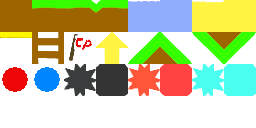
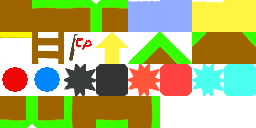
Add files via upload

Changed region(s): [[0.0, 0.75, 0.625, 1.0], [0.75, 0.25, 1.0, 0.5], [0.3438, 0.0625, 0.4062, 0.25]]

diff --git a/gameV2/js/main.js b/gameV2/js/main.js
@@ -89,14 +89,14 @@ map = [
 //   -0--1--2--3--4--5--6--7--8--9--0--1--2--3--4--5--6--7--8--9--0--1--2--3--4--5--6--7--8
 	[00,00,00,00,00,00,00,00,00,00,00,00,00,00,00,00,00,00,00,00,00,00,00,00,00,00,00,00,00,00],//00
 	[00,00,00,00,00,00,00,00,00,00,00,00,00,00,00,00,00,00,00,00,00,00,00,00,00,00,00,00,00,00],//01
-	[00,00,00,00,00,00,00,00,00,11,00,00,00,00,00,00,00,00,00,00,00,00,00,00,00,00,00,00,00,00],//02
-	[22,21,24,23,26,25,00,00,00,00,00,00,00,00,00,00,00,00,00,00,00,00,00,00,00,00,00,00,00,00],//03
-	[00,00,00,00,00,00,00,00,00,00,00,00,00,00,00,00,00,00,00,00,11,00,00,00,00,00,00,00,00,00],//04
-	[00,00,00,00,00,00,00,00,00,00,00,00,00,00,00,00,11,00,00,00,00,00,00,00,00,00,00,00,00,00],//05
-	[00,00,00,00,00,00,00,00,00,00,00,00,00,00,00,00,00,00,00,00,00,00,00,00,00,00,00,00,00,00],//06
-	[08,00,00,00,00,00,09,00,00,00,00,00,00,00,00,00,00,00,00,00,00,00,00,00,22,00,00,00,00,00],//07
-	[05,05,05,05,65,05,05,00,00,00,00,00,00,00,00,00,00,00,00,00,00,00,00,00,22,00,00,00,00,22],//08
-	[00,00,00,00,06,00,00,00,00,00,00,00,00,00,00,28,28,28,00,00,30,00,00,00,22,00,00,00,00,00],//09
+	[00,00,00,00,00,00,00,00,00,00,00,00,00,00,00,00,00,00,00,00,00,00,00,00,00,00,00,00,00,00],//02
+	[22,21,24,23,26,25,00,00,00,00,31,32,33,34,35,00,00,00,00,00,00,00,00,00,00,00,00,00,00,00],//03
+	[00,00,00,00,00,00,00,00,00,00,00,00,00,00,00,00,00,00,00,00,00,00,00,00,00,00,00,00,00,00],//04
+	[00,00,00,00,00,00,00,00,00,00,00,00,00,00,00,00,11,00,00,00,15,00,00,00,00,00,00,00,00,00],//05
+	[00,00,00,00,00,00,00,00,00,00,00,00,14,15,00,00,00,00,00,00,00,15,00,00,00,00,00,00,00,00],//06
+	[08,00,00,00,00,00,09,00,00,00,00,14,16,17,15,00,00,00,00,00,00,00,15,00,22,00,00,00,00,00],//07
+	[05,05,05,05,65,05,05,00,00,00,14,00,00,00,15,00,00,00,15,00,00,00,00,00,22,00,00,00,00,22],//08
+	[00,00,00,00,06,00,00,00,00,14,00,00,00,14,00,28,28,28,00,15,30,00,00,00,22,00,00,00,00,00],//09
 	[03,00,00,00,06,00,00,00,00,00,00,00,00,00,00,27,27,27,00,00,29,00,00,00,22,00,00,00,00,00],//10
 	[01,00,00,00,06,00,00,05,05,05,05,05,05,05,00,27,27,27,00,00,29,00,00,00,22,00,00,00,00,00],//11
 	[01,00,10,00,06,14,00,22,00,11,22,11,00,22,00,27,27,27,00,00,29,00,00,00,22,00,13,00,00,21],//12
@@ -206,8 +206,10 @@ var spikeX = new Array();//
 var spikeY = new Array();//
 var blocksX = new Array();//
 var blocksY = new Array();//
-var slopeX = new Array();//
-var slopeY = new Array();//
+var slopeRX = new Array();//
+var slopeRY = new Array();//
+var slopeLX = new Array();//
+var slopeLY = new Array();//
 var waterX = new Array();//
 var waterY = new Array();//
 var sandX = new Array();//
@@ -237,7 +239,10 @@ for (var my=0; my<map.length; my++){for (var mx=0; mx<map[my].length; mx++){
 /*player*/	if (map[my][mx] === 10&&once&&spawn) {x=32*mx, y=32*my;cx=x;cy=y}
 /*enemy*/ 	if (map[my][mx] === 11&&once&&espawn) {enemyX.push(mx*32);enemyY.push(my*32);enemyturn.push(true);enemyjump.push(true);enemyV.push(0);espeed.push(0.8);}
 /*-cp-*/	if (map[my][mx] === 13&&!cp==true) {ctx.drawImage( mapchip, 64, 32, 32, 32, 32*mx, 32*my, 32, 32 );cpX.push(mx*32);cpY.push(my*32)}
-/*slope*/ 	if (map[my][mx] === 14) {ctx.drawImage( mapchip, 128, 32, 32, 32, 32*mx, 32*my, 32, 32 );slopeX.push(mx*32);slopeY.push(my*32)}
+/*slopeR*/ 	if (map[my][mx] === 14) {ctx.drawImage( mapchip, 128, 32, 32, 32, 32*mx, 32*my, 32, 32 );slopeRX.push(mx*32);slopeRY.push(my*32)}
+/*slopeL*/ 	if (map[my][mx] === 15) {ctx.drawImage( mapchip, 160, 32, 32, 32, 32*mx, 32*my, 32, 32 );slopeLX.push(mx*32);slopeLY.push(my*32)}
+/*slopeDR*/ 	if (map[my][mx] === 16) {ctx.drawImage( mapchip, 192, 32, 32, 32, 32*mx, 32*my, 32, 32 );blocksX.push(mx*32);blocksY.push(my*32)}
+/*slopeDL*/ 	if (map[my][mx] === 17) {ctx.drawImage( mapchip, 224, 32, 32, 32, 32*mx, 32*my, 32, 32 );blocksX.push(mx*32);blocksY.push(my*32)}
 /*spikeA*/ if (map[my][mx] === 21) {ctx.drawImage( mapchip, 64, 64, 32, 32, 32*mx, 32*my, 32, 32 );spikeX.push(mx*32);spikeY.push(my*32)}
 /*blockA*/ if (map[my][mx] === 22) {ctx.drawImage( mapchip, 96, 64, 32, 32, 32*mx, 32*my, 32, 32 );blocksX.push(mx*32);blocksY.push(my*32)}
 /*spikeB*/ if (map[my][mx] === 23&&!key) {ctx.drawImage( mapchip, 128, 64, 32, 32, 32*mx, 32*my, 32, 32 );spikeX.push(mx*32);spikeY.push(my*32)}
@@ -248,6 +253,11 @@ for (var my=0; my<map.length; my++){for (var mx=0; mx<map[my].length; mx++){
 /*waterT*/ if (map[my][mx] === 28) {ctx.drawImage( mapchip, 128, 0, 32, 32, 32*mx, 32*my, 32, 32 );waterX.push(mx*32);waterY.push(my*32)}
 /*sandT*/ if (map[my][mx] === 29) {ctx.drawImage( mapchip, 224, 0, 32, 32, 32*mx, 32*my, 32, 32 );sandX.push(mx*32);sandY.push(my*32)}
 /*sandB*/ if (map[my][mx] === 30) {ctx.drawImage( mapchip, 192, 0, 32, 32, 32*mx, 32*my, 32, 32 );sandX.push(mx*32);sandY.push(my*32)}
+/*dirtR*/ 	if (map[my][mx] === 31) {ctx.drawImage( mapchip, 0, 96, 32, 32, 32*mx, 32*my, 32, 32 );blocksX.push(mx*32);blocksY.push(my*32)}
+/*dirtL*/ 	if (map[my][mx] === 32) {ctx.drawImage( mapchip, 32, 96, 32, 32, 32*mx, 32*my, 32, 32 );blocksX.push(mx*32);blocksY.push(my*32)}
+/*dirtB*/ 	if (map[my][mx] === 33) {ctx.drawImage( mapchip, 96, 96, 32, 32, 32*mx, 32*my, 32, 32 );blocksX.push(mx*32);blocksY.push(my*32)}
+/*dirtLB*/ 	if (map[my][mx] === 34) {ctx.drawImage( mapchip, 128, 96, 32, 32, 32*mx, 32*my, 32, 32 );blocksX.push(mx*32);blocksY.push(my*32)}
+/*dirtRB*/ 	if (map[my][mx] === 35) {ctx.drawImage( mapchip, 64, 96, 32, 32, 32*mx, 32*my, 32, 32 );blocksX.push(mx*32);blocksY.push(my*32)}
 }}
 /*BLOCK*/
 
@@ -304,30 +314,27 @@ else if (x>blocksX[i]&&blocksX[i]+hitboxX>x&&y>blocksY[i]-hitboxX&&blocksY[i]+hi
 }
 /*block-------------------------------------------------------------------------------------------*/
 
-/*slope*/
-for (var i=0;i<slopeY.length;i++) {
+/*slopeR*/
+for (var i=0;i<slopeRY.length;i++) {
 	if (
-	!inkey[32]&&
-	y+hitboxY+0.00001>slopeY[i]&&
-	y<slopeY[i]&&
-	x<slopeX[i]+hitboxX-2&&
-	x>slopeX[i]-hitboxX+2
-	) {y=slopeY[i]-x+slopeX[i];jump=false;vy=0}
-	else if (
-	y+hitboxY>slopeY[i]&&
-	y<slopeY[i]&&
-	x<slopeX[i]+hitboxX-2&&
-	x>slopeX[i]-hitboxX+2
-	) {y=slopeY[i]-hitboxY;jump=false;vy=0}
-	else if (
-	y>slopeY[i]&&
-	y-hitboxY<slopeY[i]&&
-	x<slopeX[i]+hitboxX-2&&
-	x>slopeX[i]-hitboxX+2
-	) {y=slopeY[i]+hitboxY;vy=0}
-if (x>slopeX[i]&&slopeX[i]+hitboxX>x&&y>slopeY[i]-hitboxX&&slopeY[i]+hitboxX>y) {x=slopeX[i]+hitboxX}
+	y+hitboxY+(x-slopeRX[i])-5>slopeRY[i]&&
+	y<slopeRY[i]&&
+	x<slopeRX[i]+hitboxX&&
+	x>slopeRX[i]-hitboxX
+	) {y=slopeRY[i]-(x-slopeRX[i])-hitboxX;jump=false;vy=0}
 }
-/*slope-------------------------------------------------------------------------------------------*/
+/*slopeR-------------------------------------------------------------------------------------------*/
+
+/*slopeL*/
+for (var i=0;i<slopeLY.length;i++) {
+	if (
+	y+hitboxY-(x-slopeLX[i])-5>slopeLY[i]&&
+	y<slopeLY[i]&&
+	x<slopeLX[i]+hitboxX&&
+	x>slopeLX[i]-hitboxX
+	) {y=slopeLY[i]+(x-slopeLX[i])-hitboxX;jump=false;vy=0}
+}
+/*slopeL-------------------------------------------------------------------------------------------*/
 
 /*spike*/
 for (var i=0;i<spikeY.length;i++) {
